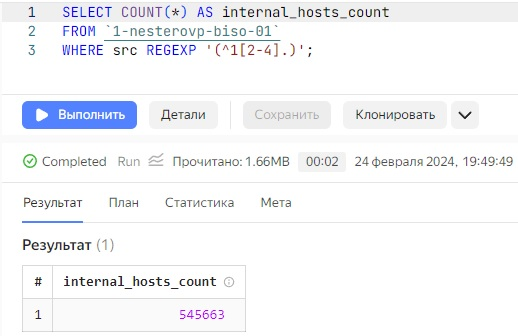
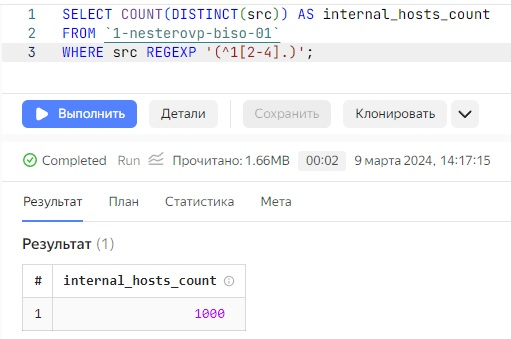
fixed 1st query

diff --git a/lab_1/README.md b/lab_1/README.md
@@ -16,7 +16,8 @@
 
 1.  ОС Windows 11
 2.  Yandex Cloud: S3 Object Storage
-3.  Датасет **yaqry_dataset.pqt**
+3.  **Yandex Query**
+4.  Датасет **yaqry_dataset.pqt**
 
 **Общая ситуация**
 
@@ -62,7 +63,7 @@
 ##### 1. Известно, что IP адреса внутренней сети начинаются с октетов, принадлежащих интервалу \[12-14\]. Определите количество хостов внутренней сети, представленных в датасете
 
 ``` {SQL}
-SELECT COUNT(*) AS internal_hosts_count
+SELECT COUNT(DISTINCT(src)) AS internal_hosts_count
 FROM `1-nesterovp-biso-01`
 WHERE src REGEXP '(^1[2-4].)';
 ```
